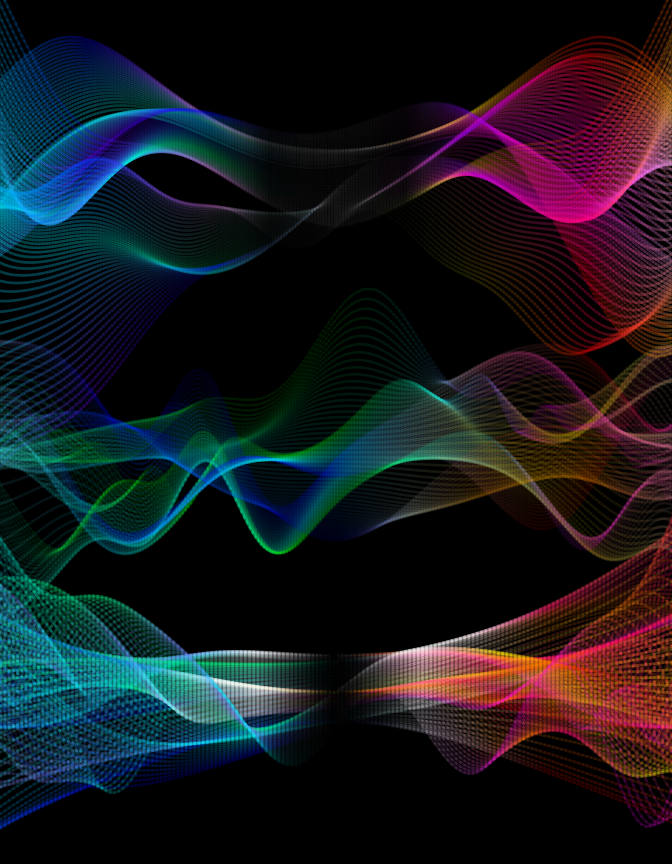
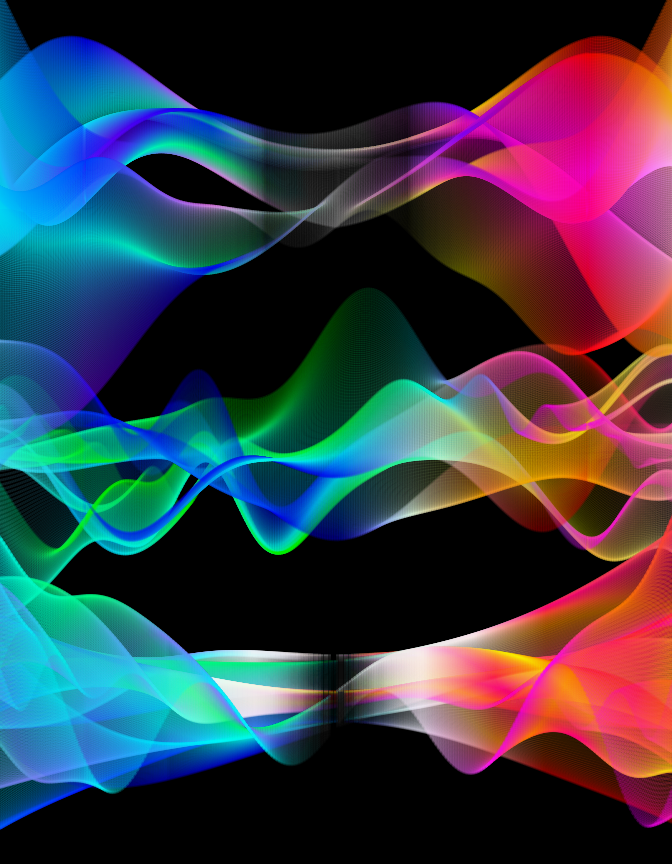
Increased resolution of main figure, created standalone thermotool figure

diff --git a/assets/graphics/thermotools_fig.py b/assets/graphics/thermotools_fig.py
@@ -57,36 +57,96 @@ hlist = [h1, h2]
 def h(x, z):
     return [hi(x, z) for hi in hlist]
 
-if __name__ == '__main__':
-    xl = np.linspace(-3, 3, 100)
+def w1(t):
+    return 0.5 * (np.tanh(5 * (t - 0.3)) + 1)
 
-    plt.figure(figsize=(10, 5))
+def distrib(z):
+    return 4 - 8 * z
 
-    nz = 50
-    funclist = [h]# f, h, g]
-    alpha_func = lambda xi: max(np.tanh(abs(0.15 * xi)) - 0.1, 0.05)
+def ft(x, z, offset=0):
+    return distrib(z) + cos(10 * x - 5 * z) + offset
+
+def gt(x, z, offset=0):
+    return distrib(z) + 2 * sin(10 * x + 5 * z) + offset
+
+def ht(x, z, offset=0):
+    return distrib(z) + 5 * sin(15 * x * z) + offset
+
+def tt_plot():
+    xl = np.linspace(-3, 3, len(tlist) * 2)
+
+    funclist = [tt_f, tt_h, tt_g]
+    alpha_func = lambda xi: 0.15 * np.tanh(abs(0.95 * xi) - 3) + 0.16
     norm = lambda x: (x - min(xl)) / (max(xl) - min(xl))
-    zl = np.linspace(0, 1, nz)
+    zl = zlist
+    print(max([alpha_func(x) for x in xl]))
     for fi, func in enumerate(funclist):
         for z in zl:
             for i in range(len(xl) - 1):
                 alpha = alpha_func(xl[i])
-                funcvals = func(xl[i : i + 2], z)
-                for val in funcvals:
-                    plt.plot(xl[i : i + 2], val, color=cmap2d(norm(xl[i]), z)
-                         , alpha=alpha)
+                plt.plot(xl[i: i + 2], func(xl[i: i + 2], z), color=cmap2d(norm(xl[i]), z)
+                             , alpha=alpha, linewidth=linewidth)
+
+def tt_sides():
+    grad1 = ColorGradient([(0, 0.5, 1), (0, 1, 1), (0, 0, 1)])
+    grad2 = ColorGradient([(0, 1, 1), (0, 0.85, 0.95), (0, 1, 1)])
+    grad3 = ColorGradient([(0, 1, 0.5), (0, 1, 1), (0.5, 0, 1)])
+    tt_cmap_l = Colormap2D([grad1, grad2, grad3])
+
+    grad1 = ColorGradient([(1, 0, 0), (1, 0.6, 0), (1, 0.6, 0)][::-1])
+    grad2 = ColorGradient([(1, 0, 1), (1, 1, 1), (1, 0, 0)][::-1])
+    grad3 = ColorGradient([(1, 0, 0), (0.9, 1, 0), (0.985, 0.06, 0.75)][::-1])
+    tt_cmap_r = Colormap2D([grad1, grad2, grad3])
+
+    expand = 4
+
+    tt_funclist_l = [lambda x, z : tt_f(- 6 + 3 * x, z) * w1(x) + expand * ft(x, z) * (1 - w1(x)),
+                     lambda x, z : tt_h(- 6 + 3 * x, z) * w1(x) + expand * ht(x, z) * (1 - w1(x)),
+                     lambda x, z : tt_g(- 6 + 3 * x, z) * w1(x) + expand * gt(x, z) * (1 - w1(x))]
+
+    tt_funclist_r = [lambda x, z : tt_f(6 - 3 * x, z) * w1(x) + expand * ft(x, z) * (1 - w1(x)),
+                     lambda x, z : tt_h(6 - 3 * x, z) * w1(x) + expand * ht(x, z) * (1 - w1(x)),
+                     lambda x, z : tt_g(6 - 3 * x, z) * w1(x) + expand * gt(x, z) * (1 - w1(x))]
+
+    for fi, (func_l, func_r) in enumerate(zip(tt_funclist_l, tt_funclist_r)):
+        for z in zlist:
+            for i in range(len(tlist) - 1):
+                t = tlist[i: i + 2]
+                fval_l = func_l(t, z)
+                fval_r = func_r(t, z)
+                plt.plot(-6 + 3 * t, fval_l, color=tt_cmap_l(t[0], z), alpha=0.1376, linewidth=linewidth)
+                plt.plot(6 - 3 * t, fval_r, color=tt_cmap_r(t[0], z), alpha=0.1376, linewidth=linewidth)
+
+
+if __name__ == '__main__':
+    plt.figure(figsize=(10, 5))
+
+    linewidth = 2
+
+    tlist = np.linspace(0, 1, 150)
+    zlist = np.linspace(0, 1, 200)
+    salpha = 0.1
+
+    tt_f = lambda x, z: f1(x, z) + f2(x, z) + 1
+    tt_h = lambda x, z: h1(x, z) + h2(x, z)
+    tt_g = lambda x, z: g1(x, z) + g2(x, z) - 1
+
+    tt_plot()
+    print('Finished plot')
+    tt_sides()
+    print('Finished sides')
 
     ax = plt.gca()
     ax.spines['top'].set_visible(False)
     ax.spines['right'].set_visible(False)
     ax.spines['bottom'].set_visible(False)
     ax.spines['left'].set_visible(False)
-    ax.get_xaxis().set_ticks([])
-    ax.get_yaxis().set_ticks([])
+    # ax.get_xaxis().set_ticks([])
+    # ax.get_yaxis().set_ticks([])
     plt.gca().set_facecolor('black')
 
-    plt.xlim(min(xl), max(xl))
-    plt.ylim(-2, 3)
+    plt.xlim(-4, 4)
+    plt.ylim(-3.5, 5)
     # plt.savefig('toolfig.pdf')
-    # plt.savefig('toolfig.png', dpi=1200)
+    plt.savefig('toolfig.png', dpi=96)
     plt.show()

diff --git a/assets/graphics/mainfig.py b/assets/graphics/mainfig.py
@@ -178,13 +178,6 @@ def tt_sides():
     grad3 = ColorGradient([(0, 1, 0.5), (0, 1, 1), (0.5, 0, 1)])
     tt_cmap_l = Colormap2D([grad1, grad2, grad3])
 
-    # for i in range(len(tlist) - 2):
-    #     for z in zlist:
-    #         plt.plot(tlist[i : i + 2] - 1, [z, z], color=tt_cmap_l(tlist[i], z), linewidth=5)
-    #         plt.plot(tlist[i : i + 2], [z, z], color=tt_cmap(tlist[i], z), linewidth=5)
-    # plt.show()
-    # exit(0)
-
     grad1 = ColorGradient([(1, 0, 0), (1, 0.6, 0), (1, 0.6, 0)][::-1])
     grad2 = ColorGradient([(1, 0, 1), (1, 1, 1), (1, 0, 0)][::-1])
     grad3 = ColorGradient([(1, 0, 0), (0.9, 1, 0), (0.985, 0.06, 0.75)][::-1])
@@ -212,8 +205,8 @@ def tt_sides():
 def w1(t):
     return 0.5 * (np.tanh(5 * (t - 0.3)) + 1)
 
-tlist = np.linspace(0, 1, 90) # 90
-zlist = np.linspace(0, 1, 50) # 50
+tlist = np.linspace(0, 1, 150) # 90
+zlist = np.linspace(0, 1, 200) # 50
 salpha = 0.1
 
 tt_f = lambda x, z: tt_f1(x, z) + tt_f2(x, z) + 1
@@ -230,10 +223,13 @@ plt.sca(ax)
 
 tp_plot()
 tp_sides()
+print('Thermopack finished')
 kg_plot()
 # kg_sides()
+print('Kineticgas finished')
 tt_plot()
 tt_sides()
+print('Thermotools finished')
 
 ax = plt.gca()
 ax.spines['top'].set_visible(False)
@@ -246,8 +242,8 @@ plt.gca().set_facecolor('black')
 
 plt.xlim(-4, 4)
 plt.ylim(-14, 5)
-plt.savefig('background.pdf')
+# plt.savefig('background.pdf')
 plt.savefig('background.png', dpi=96)
-plt.savefig('background.svg')
-plt.savefig('background.jpg', dpi=96)
+# plt.savefig('background.svg')
+# plt.savefig('background.jpg', dpi=96)
 plt.show()
